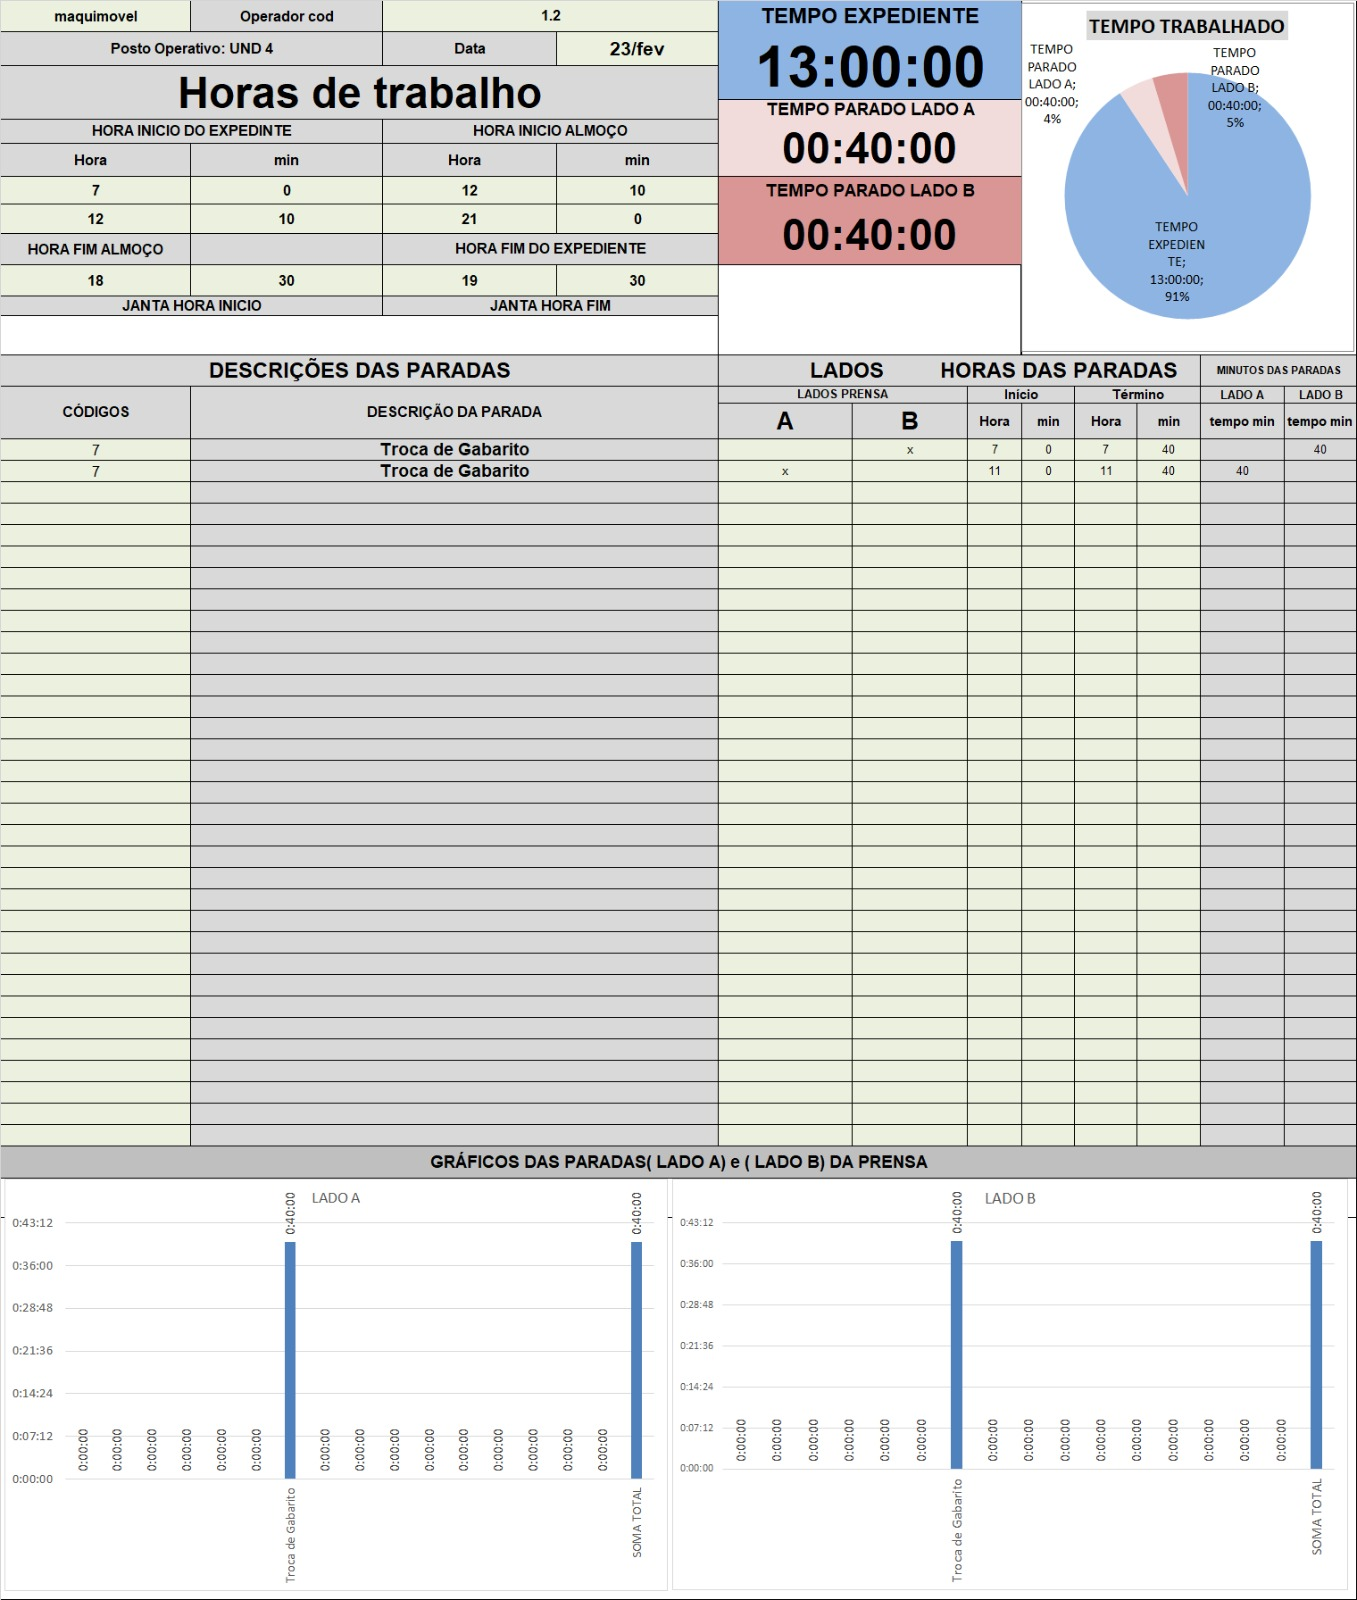
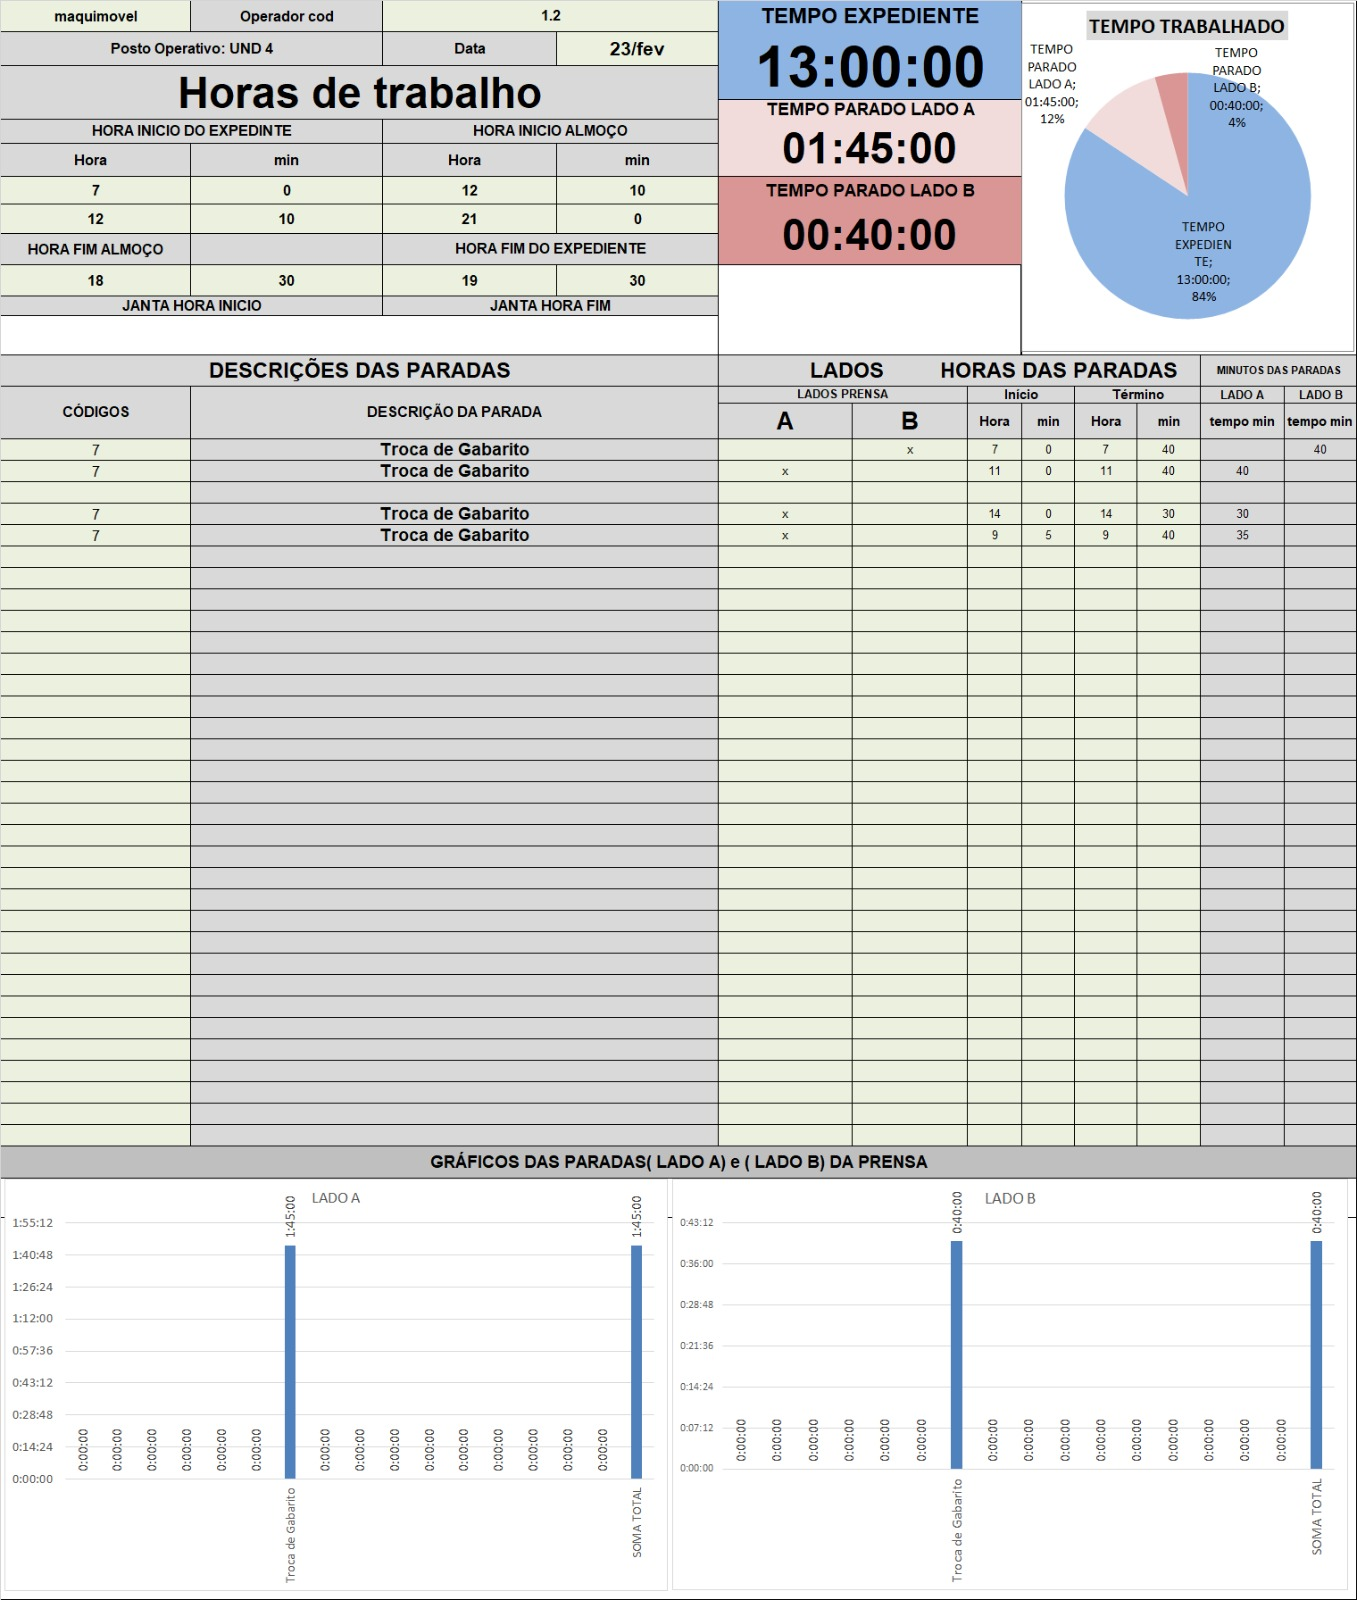
,,

diff --git a/back__incial.js b/back__incial.js
@@ -750,6 +750,8 @@ const unidades = {
             { data: "10/02/2026", captura: ["capturas/Unidade 4/Usinagem/2026/Calibradora/FEVEREIRO/10.jpeg"] },
             { data: "11/02/2026", captura: ["capturas/Unidade 4/Usinagem/2026/Prensas/FEVEREIRO/19.jpg"] },
             { data: "23/02/2026", captura: ["capturas/Unidade 4/Usinagem/2026/Calibradora/FEVEREIRO/23.jpg"] },
+            { data: "25/02/2026", captura: ["capturas/Unidade 4/Usinagem/2026/Calibradora/FEVEREIRO/26.jpg"] },
+
 
 
             // { data: "", captura: [""] },
@@ -842,6 +844,7 @@ const unidades = {
             { data: "10/02/2026", captura: ["capturas/Unidade 4/Usinagem/2026/Prensas/FEVEREIRO/10.jpeg"] },
             { data: "19/02/2026", captura: ["capturas/Unidade 4/Usinagem/2026/Prensas/FEVEREIRO/19.jpg"] },
             { data: "23/02/2026", captura: ["capturas/Unidade 4/Usinagem/2026/Prensas/FEVEREIRO/23.jpg"] },
+            { data: "25/02/2026", captura: ["capturas/Unidade 4/Usinagem/2026/Prensas/FEVEREIRO/23.jpg"] },
 
 
 
@@ -1361,6 +1364,7 @@ const unidades = {
             { data: "18/02/2026", captura: ["capturas/Unidade 4/Tempo_parado/2026/FEVEREIRO/18 ITALPRESSE.jpg", "capturas/Unidade 4/Tempo_parado/2026/FEVEREIRO/18 HOME.jpg",] },
             { data: "19/02/2026", captura: ["capturas/Unidade 4/Tempo_parado/2026/FEVEREIRO/19 ITALPRESSE.jpg"] },
             { data: "23/02/2026", captura: ["capturas/Unidade 4/Tempo_parado/2026/FEVEREIRO/23 HOME.jpg", "capturas/Unidade 4/Tempo_parado/2026/FEVEREIRO/23 ITALPRESSE.jpg", "capturas/Unidade 4/Tempo_parado/2026/FEVEREIRO/23 MAQUIMOVEL.jpg"] },
+            { data: "25/02/2026", captura: ["capturas/Unidade 4/Tempo_parado/2026/FEVEREIRO/25 HOME.jpg", "capturas/Unidade 4/Tempo_parado/2026/FEVEREIRO/25 ITALPRESSE.jpg", "capturas/Unidade 4/Tempo_parado/2026/FEVEREIRO/25 MAQUIMOVEL.jpg"] },
 
 
 
